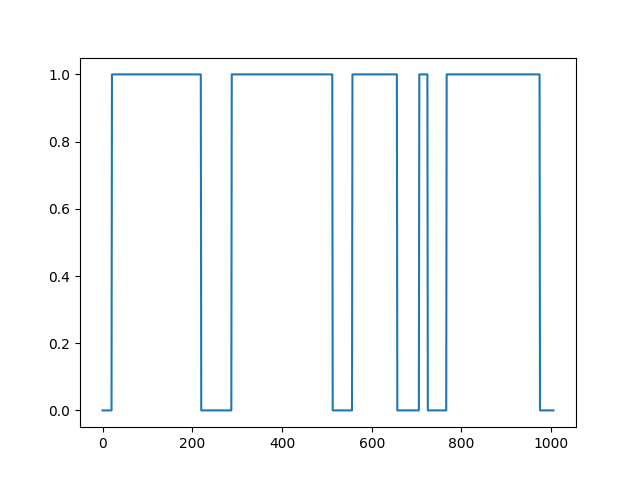
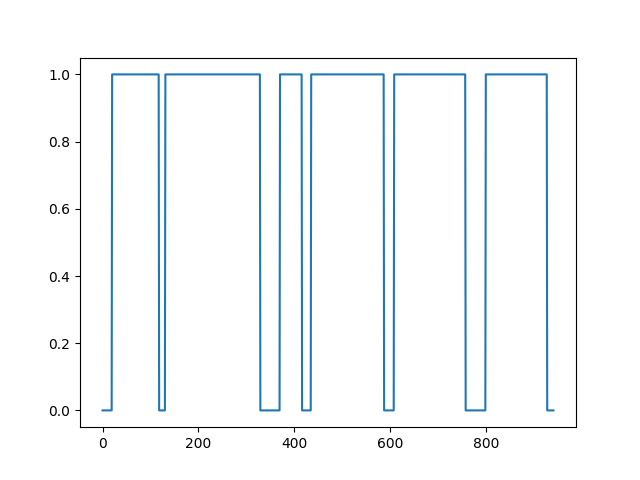
Update

diff --git a/Project1/Detection.py b/Project1/Detection.py
@@ -8,6 +8,8 @@ import secrets
 import time
 from scipy import signal
 import os
+from evaluate import get_metrics
+from sklearn import metrics
 
 # Close warnings
 # warnings.filterwarnings("ignore")
@@ -29,18 +31,10 @@ solver_name = "liblinear"
 # Solver="liblinear" is a good choice for small dataset
 model = sklearn.linear_model.LogisticRegression(penalty="l2", C=0.001, random_state=123, solver=solver_name)
 
-
-# Batch size
-# batch_size = 1024
-
-
-# Randomly choose a frame
-def random_frame():
-    # Randomly choose an index for wav
-    idx_1 = secret_generator.randint(0, len(dev_features_vector_list_dataset) - 1)
-    # Randomly choose an index for frame
-    idx_2 = secret_generator.randint(0, len(dev_features_vector_list_dataset[idx_1]) - 1)
-    return idx_1, idx_2
+# Filter size
+filter_size = 17
+# Threshold
+voice_threshold = 0.83
 
 
 # Generate batch, put all frames together into a batch
@@ -53,19 +47,76 @@ def generate_batch():
         for j in range(len(dev_features_vector_list_dataset[i])):
             batch.append(dev_features_vector_list_dataset[i][j])
             label.append(labels_list[i][1][j])
-
-    # for i in range(batch_size):
-    #     # Randomly choose a frame
-    #     idx_1, idx_2 = random_frame()
-    #     # Add into batch and label list
-    #     batch.append(dev_features_vector_list_dataset[idx_1][idx_2])
-    #     label.append(labels_list[idx_1][1][idx_2])
     return batch, label
+
+
+# Evaluate by using get_metrics() in evaluate.py
+def evaluate_dev():
+    global dev_features_vector_list_dataset, labels_list
+    global model
+    print("----------------------------------------")
+    print("Evaluating labels on dev dataset by using get_metrics() in evaluate.py...")
+
+    # Predict
+    auc_score = 0
+    eer_score = 0
+    for i in range(len(dev_features_vector_list_dataset)):
+        if i % 100 == 0 and i != 0:
+            print("Iteration:", str(i), "/", str(len(dev_features_vector_list_dataset)),
+                  "rounds | Current average AUC:", float(auc_score / i), "| Current average EER:", float(eer_score / i))
+        voice_prob = model.predict_proba(dev_features_vector_list_dataset[i])
+        pred_Y = []
+        for j in range(len(voice_prob)):
+            pred_Y.append(voice_prob[j][1])
+
+        # Smooth the predicted curve: Median filter
+        pred_Y = signal.medfilt(pred_Y, kernel_size=filter_size)
+        # Normalized the predicted voice curve into 0 / 1 array
+        for j in range(len(pred_Y)):
+            pred_Y[j] = 1 if pred_Y[j] > voice_threshold else 0
+
+        label_Y = labels_list[i][1]
+        cur_auc, cur_eer = get_metrics(pred_Y, label_Y)
+        auc_score += cur_auc
+        eer_score += cur_eer
+
+        # Plot the ROC curve of the first and last wav file
+        if i == 0:
+            metrics.plot_roc_curve(model, dev_features_vector_list_dataset[i], label_Y)
+            plt.savefig("./output/roc_curve_1")
+            plt.show()
+        if i == len(dev_features_vector_list_dataset) - 1:
+            metrics.plot_roc_curve(model, dev_features_vector_list_dataset[i], label_Y)
+            plt.savefig("./output/roc_curve_2")
+            plt.show()
+
+    return float(auc_score / len(dev_features_vector_list_dataset)), float(eer_score / len(dev_features_vector_list_dataset))
+
+
+# Train model
+def model_train(dev_X, dev_Y):
+    global model
+
+    # Model training: logistic regression
+    print("----------------------------------------")
+    print("Begin model training...")
+
+    # Time mark
+    time_mark = time.time()
+    # Fit model
+    model = model.fit(dev_X, dev_Y)
+
+    return time_mark
 
 
 # Dev
 def dev_main():
     global dev_features_vector_list_dataset, labels_list
+    global model
+
+    print("----------------------------------------")
+    print("Begin developing...")
+    print("----------------------------------------")
 
     # Read features and labels
     print("Reading features and labels...")
@@ -75,48 +126,22 @@ def dev_main():
     print("Length of dev dataset:", len(dev_features_vector_list_dataset))
     print("Length of dev labels list:", len(labels_list))
 
-    # Model training: logistic regression
-    print("----------------------------------------")
-    print("Begin model training...")
-
     # Get batch, which combines all frames together
     dev_X, dev_Y = generate_batch()
-    print("Length of dev_X:", len(dev_X))
-    print("Length of dev_Y:", len(dev_Y))
+    print("Length of dev_X for model training:", len(dev_X))
+    print("Length of dev_Y for model training:", len(dev_Y))
 
-    # Time mark
-    time_mark = time.time()
-    # Fit model
-    classifier = model.fit(dev_X, dev_Y)
+    # Model training, if you don't want to train this model again, just comment it!
+    time_mark = model_train(dev_X, dev_Y)
 
-    # Accuracy
-    idx_1, idx_2 = random_frame()
-    idx_1 = 0
-    acc_score = classifier.score(dev_features_vector_list_dataset[idx_1], labels_list[idx_1][1]) * 100
+    # Evaluate by using get_metrics() in evaluate.py, if you don't want to evaluate this model this time, just comment it!
+    avg_auc, avg_eer = evaluate_dev()
     print("Model fitting completed, with solver in Logistic Regression is:", solver_name, "| Totally",
           str(round(time.time() - time_mark, 3)), "seconds spent...")
-    print("Accuracy (randomly choose a wav in dev dataset to test): %f%%" % acc_score)
+    print("Average AUC Score:", avg_auc, "| Average ERR Score:", avg_eer)
 
-    # count = 0
-    # total_times = 5000
-    # while count < total_times:
-    #     count += 1
-    #     # Randomly generate a batch
-    #     dev_X, dev_Y = generate_batch()
-    #     # Fit model
-    #     model.fit(dev_X, dev_Y)
-    #     # Info
-    #     if count % 100 == 0:
-    #         # Randomly choose a frame to test accuracy
-    #         idx_1, idx_2 = random_frame()
-    #         acc_score = model.score(dev_features_vector_list_dataset[idx_1], labels_list[idx_1][1])
-    #         print("Iteration", str(count), "/", str(total_times), "| Training accuracy score:",
-    #               str(acc_score))
-    #         print(model.coef_)
-    #         # Push into list
-    #         accuracy_list.append(acc_score)
-
-    # Save model
+    # Save model, if you don't want to save this model this time, just comment it!
+    print("----------------------------------------")
     print("Saving model...")
     joblib.dump(model, "./model_save/model.pkl")
 
@@ -128,44 +153,41 @@ def test_main():
     predicted_result = []
     predicted_voice_curve = []
 
-    # Read model
     print("----------------------------------------")
+    print("Begin testing...")
+    print("----------------------------------------")
+
+    # Read model
     print("Reading model...")
     print("----------------------------------------")
     my_model = joblib.load("./model_save/model.pkl")
 
     # Read features
     print("Reading features and labels...")
-    print("----------------------------------------")
     test_features_vector_list_dataset = np.load("./input/features/test_features.npy", allow_pickle=True)
 
     print("Length of test features vector list:", len(test_features_vector_list_dataset))
 
-    # Filter size
-    filter_size = 23
-    # Threshold
-    voice_threshold = 0.7
     # Time unit for each frame, need to be synchronized with time_unit in data_construction.py
     time_unit = 30
     # Time shift
     time_shift = int(time_unit / 2)
 
     # Predict
+    print("----------------------------------------")
     print("Predicting labels on test dataset...")
     for i in range(len(test_features_vector_list_dataset)):
         if i % 100 == 0:
             print("Iteration:", str(i), "/", str(len(test_features_vector_list_dataset)), "rounds")
         my_predict = my_model.predict_proba(test_features_vector_list_dataset[i])
         predicted_result.append(my_predict)
-
         voice_curve = []
         for j in range(len(predicted_result[i])):
-            # Curve 2 represents the voice! 1 for speaking, 0 for not speaking
+            # Curve[1] represents the voice! 1 for speaking, 0 for not speaking
             voice_curve.append(predicted_result[i][j][1])
 
         # Smooth the predicted voice curve: Median filter
         voice_curve = signal.medfilt(voice_curve, kernel_size=filter_size)
-
         # Normalized the predicted voice curve into 0 / 1 array
         for j in range(len(voice_curve)):
             voice_curve[j] = 1 if voice_curve[j] > voice_threshold else 0
@@ -191,7 +213,8 @@ def test_main():
     # Randomly choose a wav file to perform human test
     test_idx = secret_generator.randint(0, len(wav_files) - 1)
     print("Wav file", test_idx, ":", wav_files[test_idx], "(Please search this file in ../vad/wavs/test,"
-                                                          " and make artificial judge between this wav and predicted curve)")  # Print file name
+                                                          " and make artificial judge between this wav figure and predicted curve)")  # Print file name
+    print("----------------------------------------")
     # plt.plot(predicted_result[0])
     plt.plot(predicted_voice_curve[test_idx])
     plt.savefig("./output/predict")
@@ -235,10 +258,10 @@ def test_main():
 
 
 def main():
-    # # Dev main
-    # dev_main()
-    # Test main
-    test_main()
+    # Dev main, if you don't want to run developing method (model train and evaluate), just comment it!
+    dev_main()
+    # # Test main, if you don't want to run testing method (generate predictions on test dataset), just comment it!
+    # test_main()
 
 
 if __name__ == '__main__':
